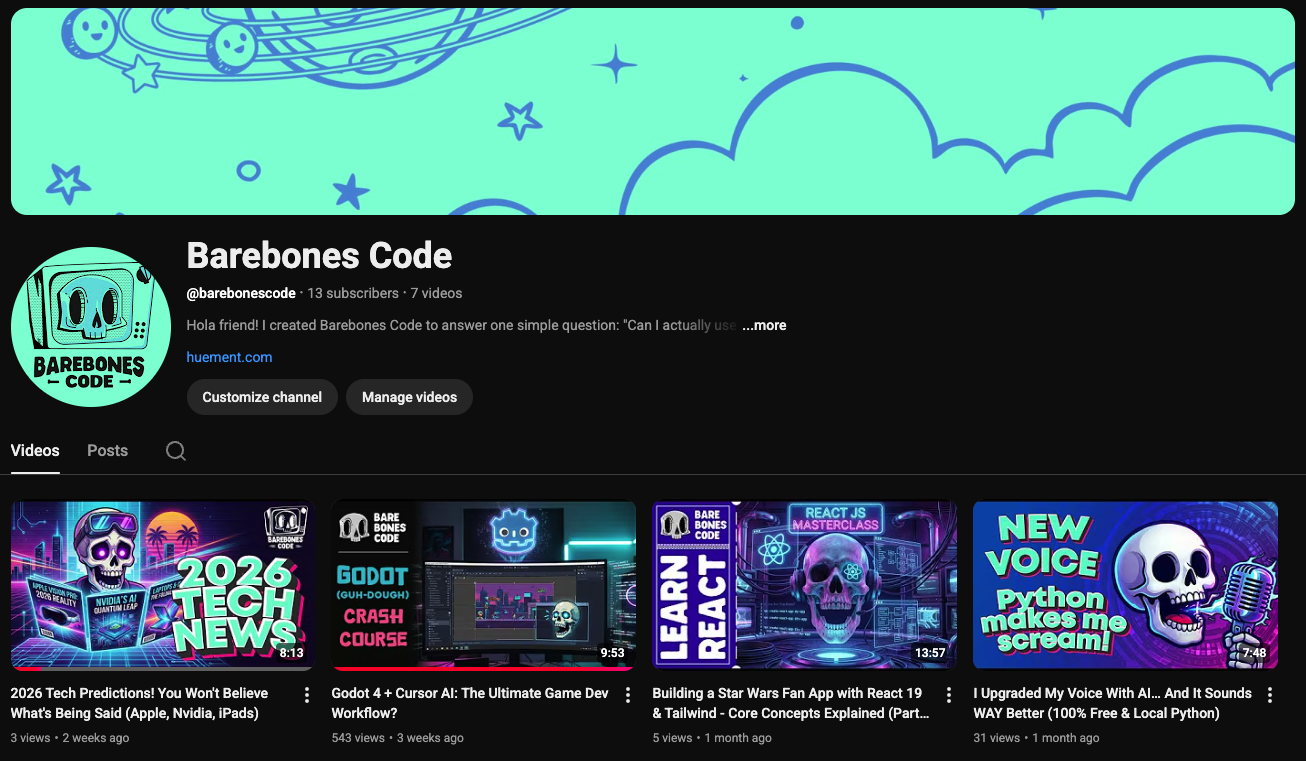
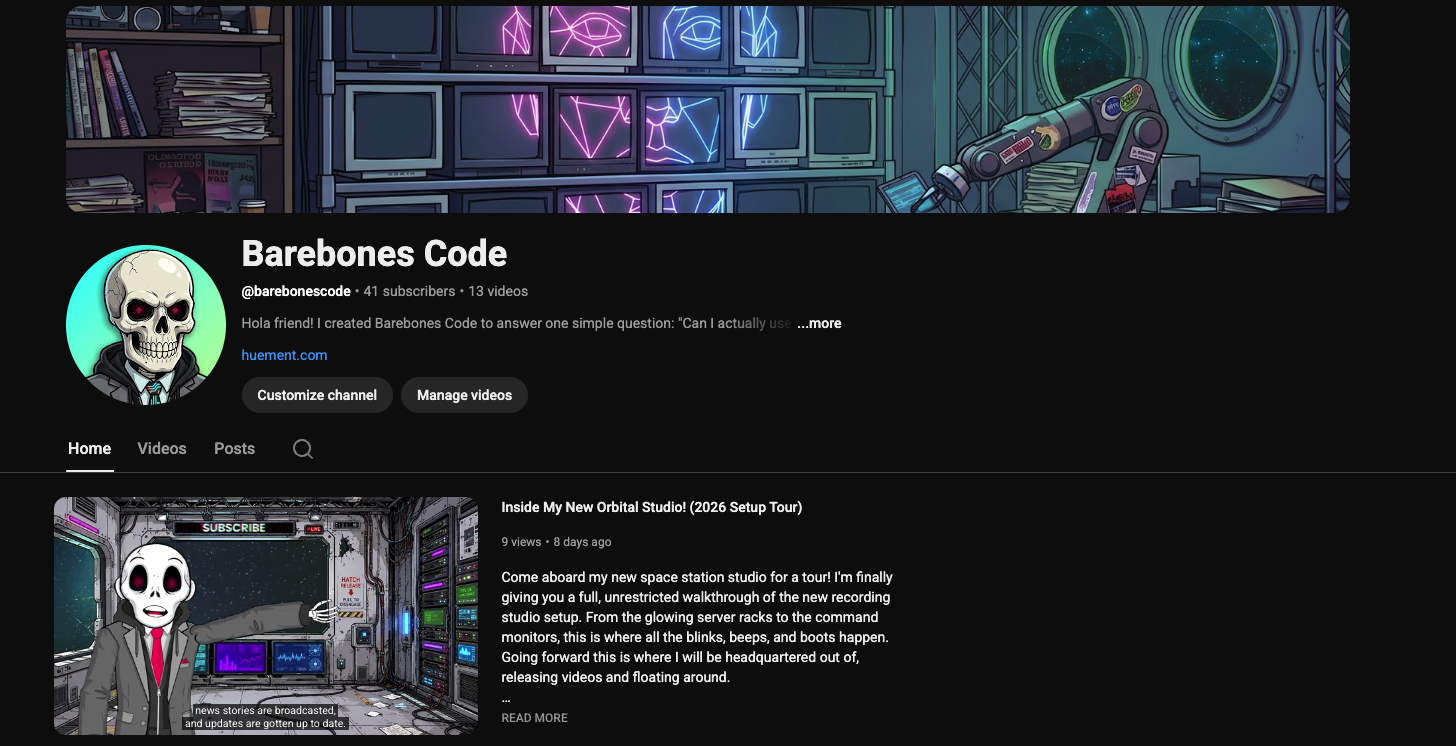
feat: updated CTA button

diff --git a/src/data/portfolio.ts b/src/data/portfolio.ts
@@ -4,7 +4,10 @@
 // ---------------------------------------------------------------------------
 // Projects (portfolio grid)
 // ---------------------------------------------------------------------------
-export type GridClass = "masonry-item--w4" | "masonry-item--w4-double";
+export type GridClass =
+  | "masonry-item--w4"
+  | "masonry-item--w4-double"
+  | "masonry-item--w6";
 export type CardClass =
   | "card"
   | "card card-featured"
@@ -29,50 +32,26 @@ export const projects: Project[] = [
     id: "blog",
     title: "huement.com Blog",
     description:
-      "Laravel Livewire site—I coded it, did all the artwork, and wrote every article. Statamic CMS with a Digital Ocean CI/CD pipeline.",
+      "Statamic CMS based, using the latest Laravel Livewire as a foundation, its my cutting edge tech focused blog. All the artwork, every article, and anything else you see was either coded, created, or written by me. It uses the latest SEO practices, and is optimized for speed and performance.",
     imageKey: "blog.png",
-    tags: [
-      "Laravel",
-      "Livewire",
-      "Statamic CMS",
-      "PHP",
-      "Digital Ocean",
-      "CI/CD",
-    ],
+    tags: ["Laravel Livewire", "Statamic CMS", "PHP 8.3+", "CI/CD"],
     gridClass: "masonry-item--w4-double",
     cardClass: "card card-featured",
     ctaUrl: "https://huement.com/blog", // Button will show for this one
     ctaText: "Read Blog",
   },
   {
-    id: "map",
-    title: "Map Data",
-    description: "Spatial data visualization and mapping.",
-    imageKey: "map.png",
-    tags: ["PostGIS", "PHP", "SQL", "HTML5"],
-    gridClass: "masonry-item--w4",
-    cardClass: "card",
-  },
-  {
-    id: "map-texture",
-    title: "Map Texture",
-    description: "Custom map textures and rendering.",
-    imageKey: "map_texture.png",
-    tags: ["PostGIS", "GeoJSON", "PHP"],
-    gridClass: "masonry-item--w4",
-    cardClass: "card",
-  },
-  {
-    id: "shopify",
-    title: "NextJS Shopify Storefront React App",
+    id: "luma",
+    title: "Luma Shapes",
     description:
-      "Pull in Shopify API Storefront data and display it with React. Uses Next.js for server side component and rendering functionality.",
-    imageKey: "shopify.png",
-    tags: ["React.js", "NextJS", "Shopify", "Ecommerce"],
-    gridClass: "masonry-item--w4-double",
+      "Sensory Game created for babies. It plays pleasing musical chords and offers bright shapes and fun animations upon interacting with the shapes and characters. I coded this game using Godot Engine, and it is available for Android devices. The pixel art was generated mostly through Higgsfield.ai.",
+    imageKey: "luma.png",
+    tags: ["Godot", "Android", "Musical", "Pixel Art"],
+    gridClass: "masonry-item--w4",
+    ctaUrl:
+      "https://play.google.com/store/apps/details?id=com.huement.lumashapes&hl=en_US",
+    ctaText: "Google PlayStore",
     cardClass: "card",
-    ctaUrl: "https://github.com/huement/shopify-react-demo", // Button will show for this one
-    ctaText: "Goto Repository",
   },
   {
     id: "youtube",
@@ -81,10 +60,34 @@ export const projects: Project[] = [
       "My YouTube channel about tech—videos with heavy animation and voiceovers. I handle all editing and animations.",
     imageKey: "youtube.png",
     tags: ["YouTube", "Video", "Animation", "Voiceover"],
-    gridClass: "masonry-item--w4-double",
+    gridClass: "masonry-item--w6",
     cardClass: "card card-highlight",
     ctaUrl: "https://youtube.com/@barebonescode",
     ctaText: "Visit Channel",
+  },
+  {
+    id: "shopify",
+    title: "NextJS Shopify Storefront React App",
+    description:
+      "Pull in Shopify API Storefront data and display it with React. Uses Next.js for server side component and rendering functionality.",
+    imageKey: "shopify.png",
+    tags: ["React.js", "NextJS", "Shopify", "Ecommerce"],
+    gridClass: "masonry-item--w6",
+    cardClass: "card",
+    ctaUrl: "https://github.com/huement/shopify-react-demo", // Button will show for this one
+    ctaText: "Goto Repository",
+  },
+  {
+    id: "trend",
+    title: "TrendForge",
+    description:
+      "A web application for visualizing and analyzing trends. We call it 'Narrative Arbitrage', and TrendForge uses the latest Tailwind v4, React 18, Typescript, PHP and various AI tools, including LLAMA, XAI, OpenAI's GPT-4, HuggingFace Models, and much more. It features a user-friendly interface for visualizing trends, and generating insights. It also has a Wordpress plugin, which allows users to easily pull story suggestions based of current trends, directly into their WordPress site. For a backend it heavily relies on PGVector, based on PostGreSQL, and outputs OpenAPI standard endpoints.",
+    imageKey: "trendforge.png",
+    tags: ["AI Analytics", "Docker", "PGVector", "Volt", "Tailwind"],
+    gridClass: "masonry-item--w4-double",
+    cardClass: "card",
+    ctaUrl: "https://trendforge.huement.com",
+    ctaText: "Goto TF Website",
   },
   {
     id: "flightplan",
@@ -96,14 +99,13 @@ export const projects: Project[] = [
     gridClass: "masonry-item--w4",
     cardClass: "card",
   },
-
   {
     id: "laanc",
     title: "LAANC Map Layers",
     description: "Generating complex maps and layers from PostGIS GeoJSON.",
     imageKey: "laanc.png",
     tags: ["PostGIS", "GeoJSON", "PHP", "SQL"],
-    gridClass: "masonry-item--w4-double",
+    gridClass: "masonry-item--w4",
     cardClass: "card card-laanc",
   },
   {
@@ -139,25 +141,6 @@ export const projects: Project[] = [
     description: "Hybrid mobile applications; ReactJS since its earliest days.",
     imageKey: "freshlime1.png",
     tags: ["React.js", "Python", "Django", "AWS", "AngularJS"],
-    gridClass: "masonry-item--w4",
-    cardClass: "card",
-  },
-  {
-    id: "results",
-    title: "AI Analytics",
-    description:
-      "Loading statistics and AI compiled results as mapped data layers.",
-    imageKey: "results.png",
-    tags: ["Vue.js", "TypeScript", "GraphQL", "Node.js", "PostGIS"],
-    gridClass: "masonry-item--w4",
-    cardClass: "card",
-  },
-  {
-    id: "freshlime3",
-    title: "FreshLime App",
-    description: "Business management suite and hybrid mobile experience.",
-    imageKey: "freshlime3.png",
-    tags: ["React.js", "Django", "Python", "AWS"],
     gridClass: "masonry-item--w4",
     cardClass: "card",
   },
@@ -320,12 +303,6 @@ export const hobbies: Hobby[] = [
       "I take pride in having an overclocked, unlocked and ready to rock mac :D",
       "I wrote the code that runs the system stats LED screen. ",
     ],
-  },
-  {
-    title: "Leah",
-    imageKey: "leah.png",
-    description:
-      "Personal photo—balance between life and code. Someone who keeps the ship steady.",
   },
   {
     title: "Overworld",